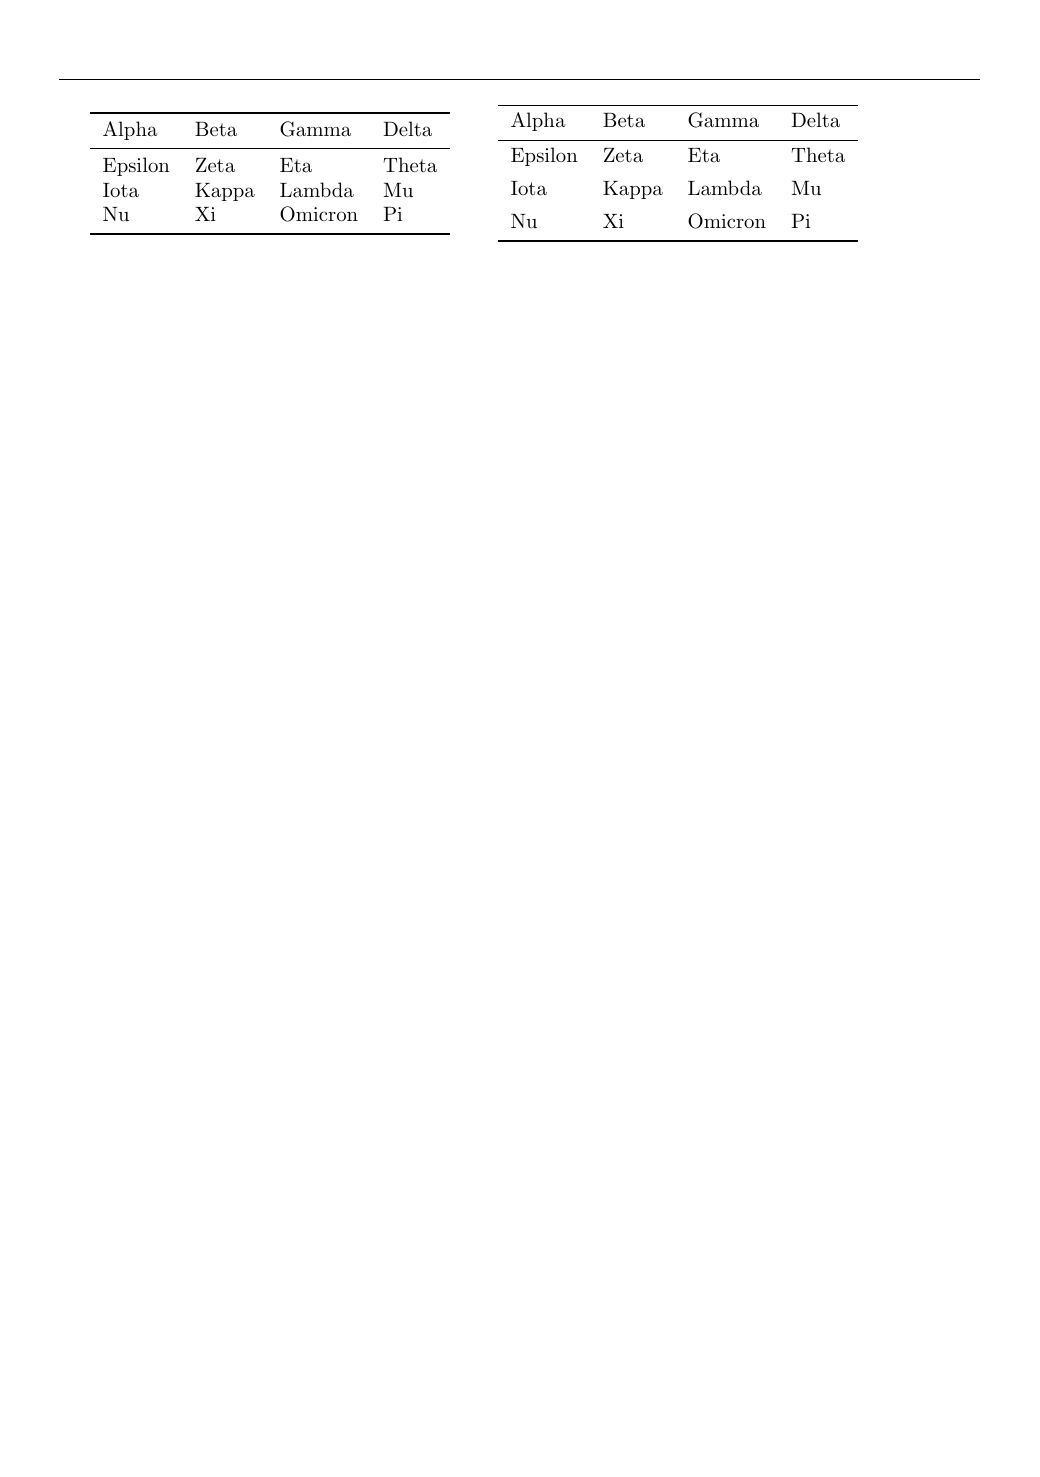
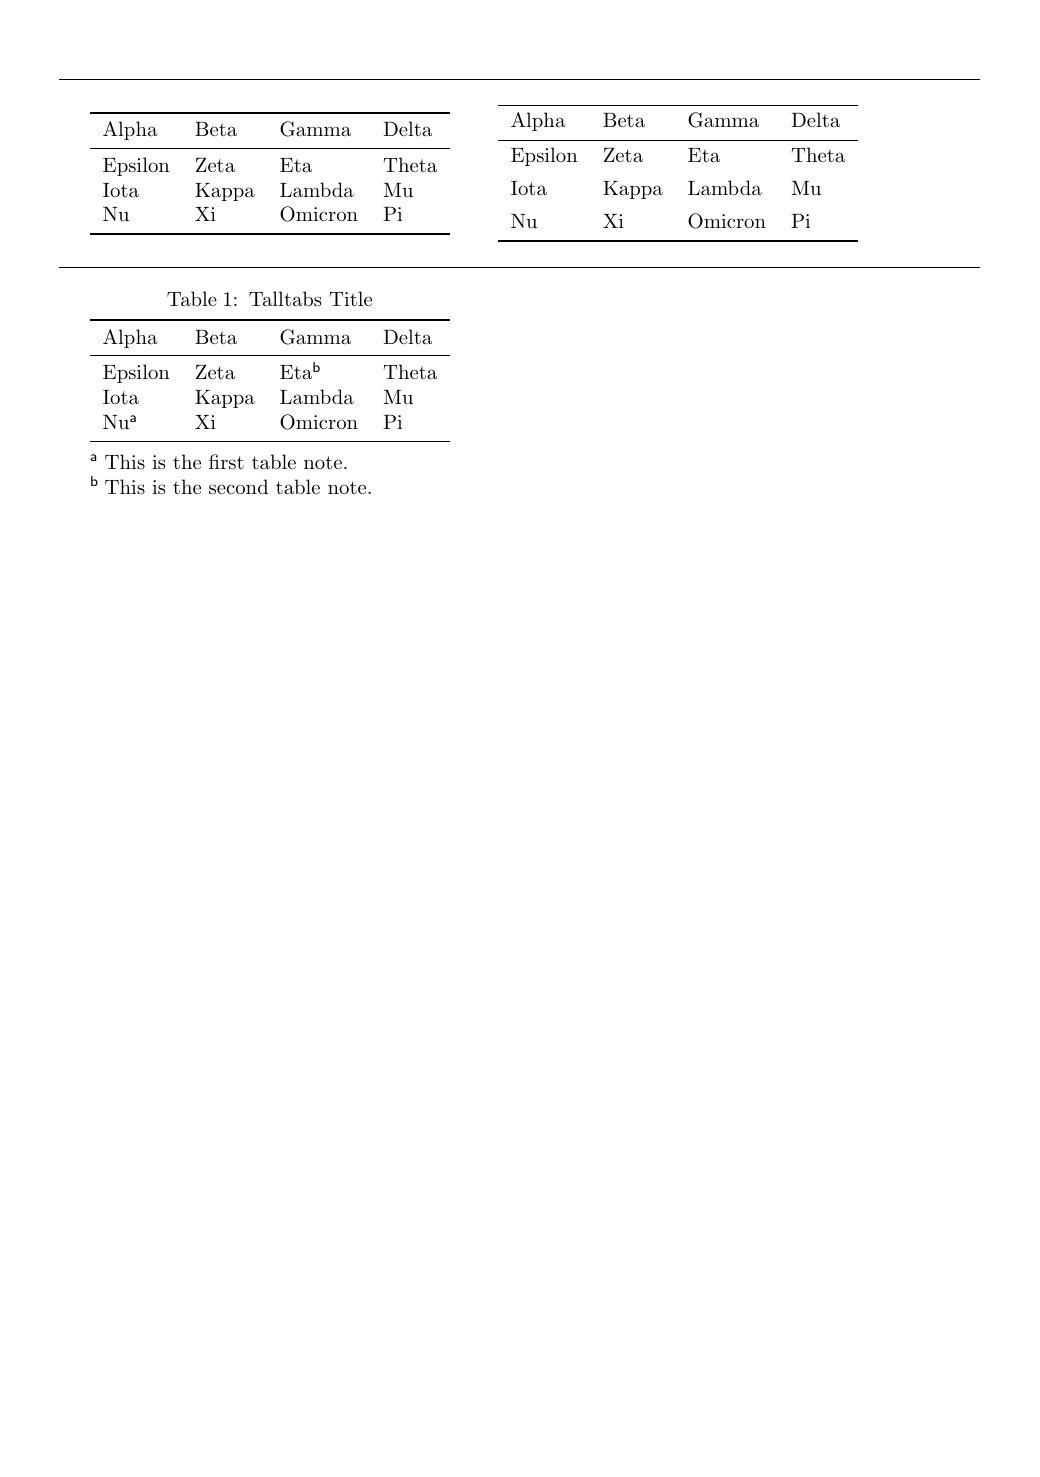
update test files

Changed region(s): [[0.0923, 0.1869, 0.3692, 0.3426], [0.3692, 0.218, 0.4, 0.2803]]

diff --git a/testfiles/long-007.tex b/testfiles/long-007.tex
@@ -1,0 +1,87 @@
+%  -*- coding: utf-8 -*-
+\documentclass[12pt]{article}
+\usepackage[a6paper,margin=15mm]{geometry}
+\pagestyle{empty}
+
+\input{regression-test}
+
+\usepackage{xcolor}
+\usepackage{tabularray}
+\usepackage{array}
+
+\SetTblrTracing{none}
+\UseTblrLibrary{varwidth}
+
+\begin{document}
+
+\START
+
+\BEGINTEST{#165: pagebreak option}
+Text Text Text Text Text Text Text Text Text Text Text Text Text Text Text.
+\begin{longtblr}[
+  caption = {Talks},
+]{
+  colspec = {lll},
+  rowhead = 1,
+  row{odd} = {gray8},
+  row{1} = {brown8},
+  hborder{odd} = {pagebreak=no},
+  hborder{28} = {pagebreak=no},
+}
+  Head  &Head   &Head  \\
+  Talk A&Place A&Date A\\
+  Talk B&Place B&Date B\\
+  Talk C&Place C&Date C\\
+  Talk D&Place D&Date D\\
+  Talk E&Place E&Date E\\
+  Talk F&Place F&Date F\\
+  Talk A&Place A&Date A\\
+  Talk B&Place B&Date B\\
+  Talk C&Place C&Date C\\
+  Talk D&Place D&Date D\\
+  Talk E&Place E&Date E\\
+  Talk F&Place F&Date F\\
+  Talk A&Place A&Date A\\
+  Talk B&Place B&Date B\\
+  Talk C&Place C&Date C\\
+  Talk D&Place D&Date D\\
+  Talk E&Place E&Date E\\
+  Talk F&Place F&Date F\\
+  Talk A&Place A&Date A\\
+  Talk B&Place B&Date B\\
+  Talk C&Place C&Date C\\
+  Talk D&Place D&Date D\\
+  Talk E&Place E&Date E\\
+  Talk F&Place F&Date F\\
+  Talk A&Place A&Date A\\
+  Talk B&Place B&Date B\\
+\hborder{pagebreak=auto} % overwrite pagebreak=no before
+  Talk C&Place C&Date C\\
+  Talk D&Place D&Date D\\
+  Talk E&Place E&Date E\\
+  Talk F&Place F&Date F\\
+  Talk A&Place A&Date A\\
+  Talk B&Place B&Date B\\
+  Talk C&Place C&Date C\\
+  Talk D&Place D&Date D\\
+  Talk E&Place E&Date E\\
+  Talk F&Place F&Date F\\
+  Talk A&Place A&Date A\\
+  Talk B&Place B&Date B\\
+  Talk C&Place C&Date C\\
+\hborder{pagebreak} % overwrite pagebreak=no before
+  Talk D&Place D&Date D\\
+  Talk E&Place E&Date E\\
+  Talk F&Place F&Date F\\
+%\hborder{pagebreak}
+  Talk A&Place A&Date A\\
+  Talk B&Place B&Date B\\
+  Talk C&Place C&Date C\\
+  Talk D&Place D&Date D\\
+  Talk E&Place E&Date E\\
+  Talk F&Place F&Date F\\
+\end{longtblr}
+Text Text Text Text Text Text Text Text Text Text Text Text Text Text Text.
+\ENDTEST
+
+\end{document}

diff --git a/testfiles/color-006.tex b/testfiles/color-006.tex
@@ -1,0 +1,77 @@
+\documentclass{article}
+\usepackage[b5paper,margin=1cm]{geometry}
+\pagestyle{empty}
+
+\input{regression-test}
+
+\usepackage{xcolor}
+%\usepackage{ninecolors}
+\usepackage{tabularray}
+\usepackage{array}
+
+\SetTblrTracing{none}
+\UseTblrLibrary{varwidth}
+
+\begin{document}
+
+\hrule\bigskip
+
+\START
+
+\BEGINTEST{even and odd selectors with options}
+\begin{tblr}{
+  row{1} = {gray9},
+  cell{odd}{1} = {red9},
+  cell{odd[4]}{2} = {green9},
+  cell{odd[3-X]}{3} = {blue9},
+}
+  Head  &Head   &Head  \\
+  Talk A&Place A&Date A\\
+  Talk B&Place B&Date B\\
+  Talk C&Place C&Date C\\
+  Talk D&Place D&Date D\\
+  Talk E&Place E&Date E\\
+  Talk F&Place F&Date F\\
+  Talk A&Place A&Date A\\
+  Talk B&Place B&Date B\\
+  Talk C&Place C&Date C\\
+  Talk D&Place D&Date D\\
+  Talk E&Place E&Date E\\
+  Talk F&Place F&Date F\\
+  Talk A&Place A&Date A\\
+  Talk B&Place B&Date B\\
+  Talk C&Place C&Date C\\
+  Talk D&Place D&Date D\\
+  Talk E&Place E&Date E\\
+  Talk F&Place F&Date F\\
+\end{tblr}
+\qquad
+\begin{tblr}{
+  row{1} = {gray9},
+  cell{even}{1} = {yellow9},
+  cell{even[4]}{2} = {cyan9},
+  cell{even[3-X]}{3} = {purple9},
+}
+  Head  &Head   &Head  \\
+  Talk A&Place A&Date A\\
+  Talk B&Place B&Date B\\
+  Talk C&Place C&Date C\\
+  Talk D&Place D&Date D\\
+  Talk E&Place E&Date E\\
+  Talk F&Place F&Date F\\
+  Talk A&Place A&Date A\\
+  Talk B&Place B&Date B\\
+  Talk C&Place C&Date C\\
+  Talk D&Place D&Date D\\
+  Talk E&Place E&Date E\\
+  Talk F&Place F&Date F\\
+  Talk A&Place A&Date A\\
+  Talk B&Place B&Date B\\
+  Talk C&Place C&Date C\\
+  Talk D&Place D&Date D\\
+  Talk E&Place E&Date E\\
+  Talk F&Place F&Date F\\
+\end{tblr}
+\ENDTEST
+
+\end{document}

diff --git a/testfiles/cell-007.tex b/testfiles/cell-007.tex
@@ -16,7 +16,7 @@
 \START
 \hrule\bigskip
 
-\BEGINTEST{test \multirow cells}
+\BEGINTEST{test multirow cells}
 \begin{tabular}{|l|l|l|l|}
 \hline
 \multirow{4}{1.5cm}{Multirow Cell One}
@@ -27,7 +27,7 @@
 & Delta & & Delta \\
 \hline
 \end{tabular}
-\SetTblrDefault{rows={rowsep=0pt}}
+\SetTblrInner{rows={rowsep=0pt}}
 \begin{tblr}{|l|l|l|l|}
 \hline
 \SetCell[r=4]{1.5cm} Multirow Cell One
@@ -36,6 +36,23 @@
 & Beta  & & Beta \\
 & Gamma & & Gamma \\
 & Delta & & Delta \\
+\hline
+\end{tblr}
+\ENDTEST
+
+\bigskip\hrule\bigskip
+
+\BEGINTEST{test multirow cells with double hlines}%#141
+\begin{tblr}{colspec={llll}, hlines, vlines, hline{2}={2}{-}{solid}}
+    A & \SetCell[c=2]{c} B & C & D \\
+    E & F & G & H
+\end{tblr}
+\qquad
+\begin{tblr}{colspec={c|c|c},hlines}
+\hline
+A & B & C \\
+\SetCell[r=2]{c} A & B1 & C1 \\
+                   & B2 & C2 \\
 \hline
 \end{tblr}
 \ENDTEST

diff --git a/testfiles/library-009.tex b/testfiles/library-009.tex
@@ -1,0 +1,37 @@
+\documentclass{article}
+\usepackage[b5paper,margin=1cm]{geometry}
+\pagestyle{empty}
+\setlength{\parindent}{0pt}
+
+\input{regression-test}
+
+\usepackage{tabularray}
+\UseTblrLibrary{siunitx}
+
+\usepackage{array}
+
+\SetTblrTracing{none}
+\UseTblrLibrary{varwidth}
+
+\begin{document}
+
+\START
+\hrule\bigskip
+
+\BEGINTEST{siunitx: testing multiline cells}%#90
+\centering
+\begin{tblr}{colspec=lSS,hlines,vlines}
+{two line \\ column header} & {{{column header}}} & {{{two line \\ column header}}} \\
+\end{tblr}
+\ENDTEST
+
+\bigskip\hrule\bigskip
+
+\BEGINTEST{testing multiline cells with three pairs of braces}%#90
+\centering
+\begin{tblr}{hlines,vlines}
+{{{one line cell}}} & {{{two line \\ text}}} \\
+\end{tblr}
+\ENDTEST
+
+\end{document}

diff --git a/testfiles/library-001.tex b/testfiles/library-001.tex
@@ -40,4 +40,22 @@
 \end{tblr}
 \ENDTEST
 
+\bigskip\hrule\bigskip
+
+\BEGINTEST{talltabs: testing}% #170
+\begin{talltabs}[
+  caption = {Talltabs Title},
+  note{a} = {This is the first table note.},
+  note{b} = {This is the second table note.},
+]{llll}
+\toprule
+ Alpha          & Beta  & Gamma           & Delta \\
+\midrule
+ Epsilon        & Zeta  & Eta\TblrNote{b} & Theta \\
+ Iota           & Kappa & Lambda          & Mu    \\
+ Nu\TblrNote{a} & Xi    & Omicron         & Pi    \\
+\bottomrule
+\end{talltabs}
+\ENDTEST
+
 \end{document}

diff --git a/testfiles/table-007.tex b/testfiles/table-007.tex
@@ -66,4 +66,17 @@ $\begin{tblr}{Q[l,mode=text]Q[r,$]Q[r,$$]}
 \end{tblr}$
 \ENDTEST
 
+\bigskip\hrule\bigskip
+
+\BEGINTEST{testing mode=math with font=\boldmath}%#137
+\begin{tblr}{
+  hlines, vlines,
+  column{1}={font=\bfseries},
+  column{2}={font=\boldmath,mode=math},
+}
+  1    & n    \\
+  text & y[n] \\
+\end{tblr}
+\ENDTEST
+
 \end{document}

diff --git a/testfiles/table-010.tex b/testfiles/table-010.tex
@@ -90,4 +90,15 @@
 \end{tblr}
 \ENDTEST
 
+\vspace{2em}
+
+% See issue #114
+\BEGINTEST{missing last rows when tblr contains truncated rows}
+\begin{tblr}{hlines}
+this is & shown\\
+\\
+this is & not shown\\
+\end{tblr}
+\ENDTEST
+
 \end{document}
